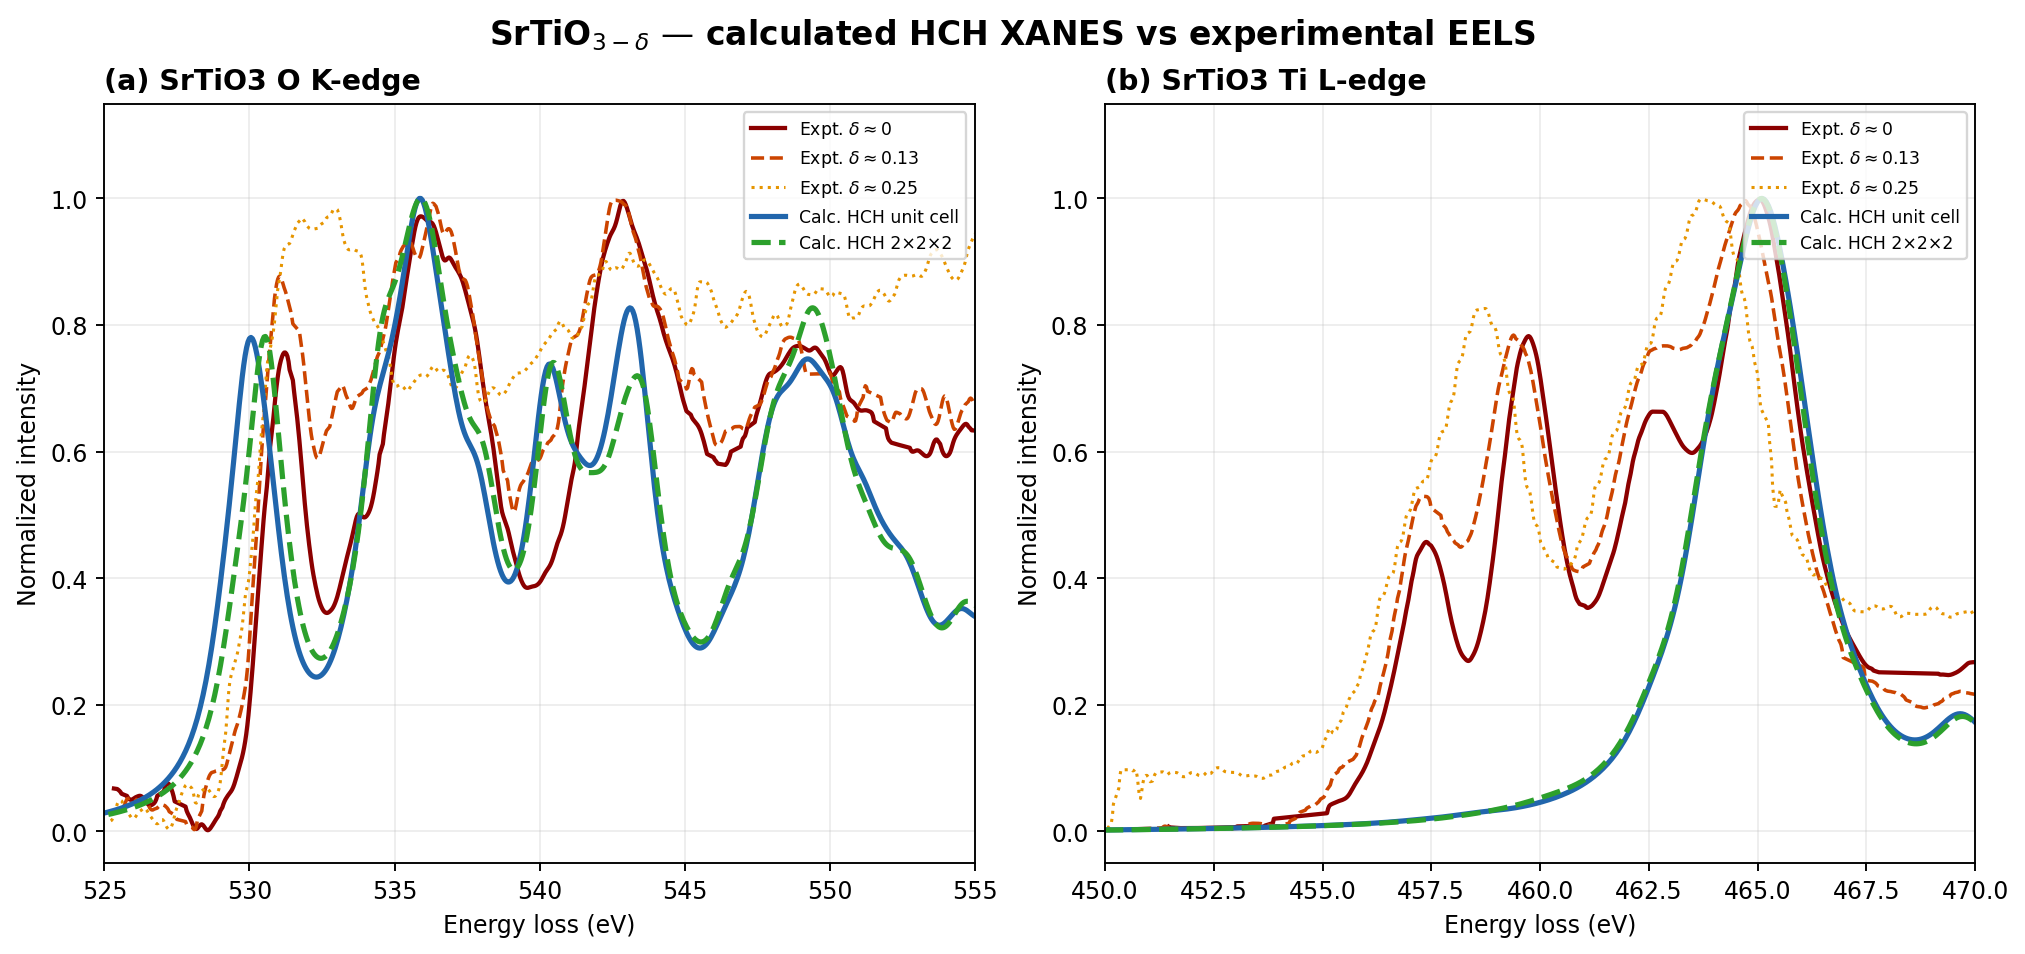
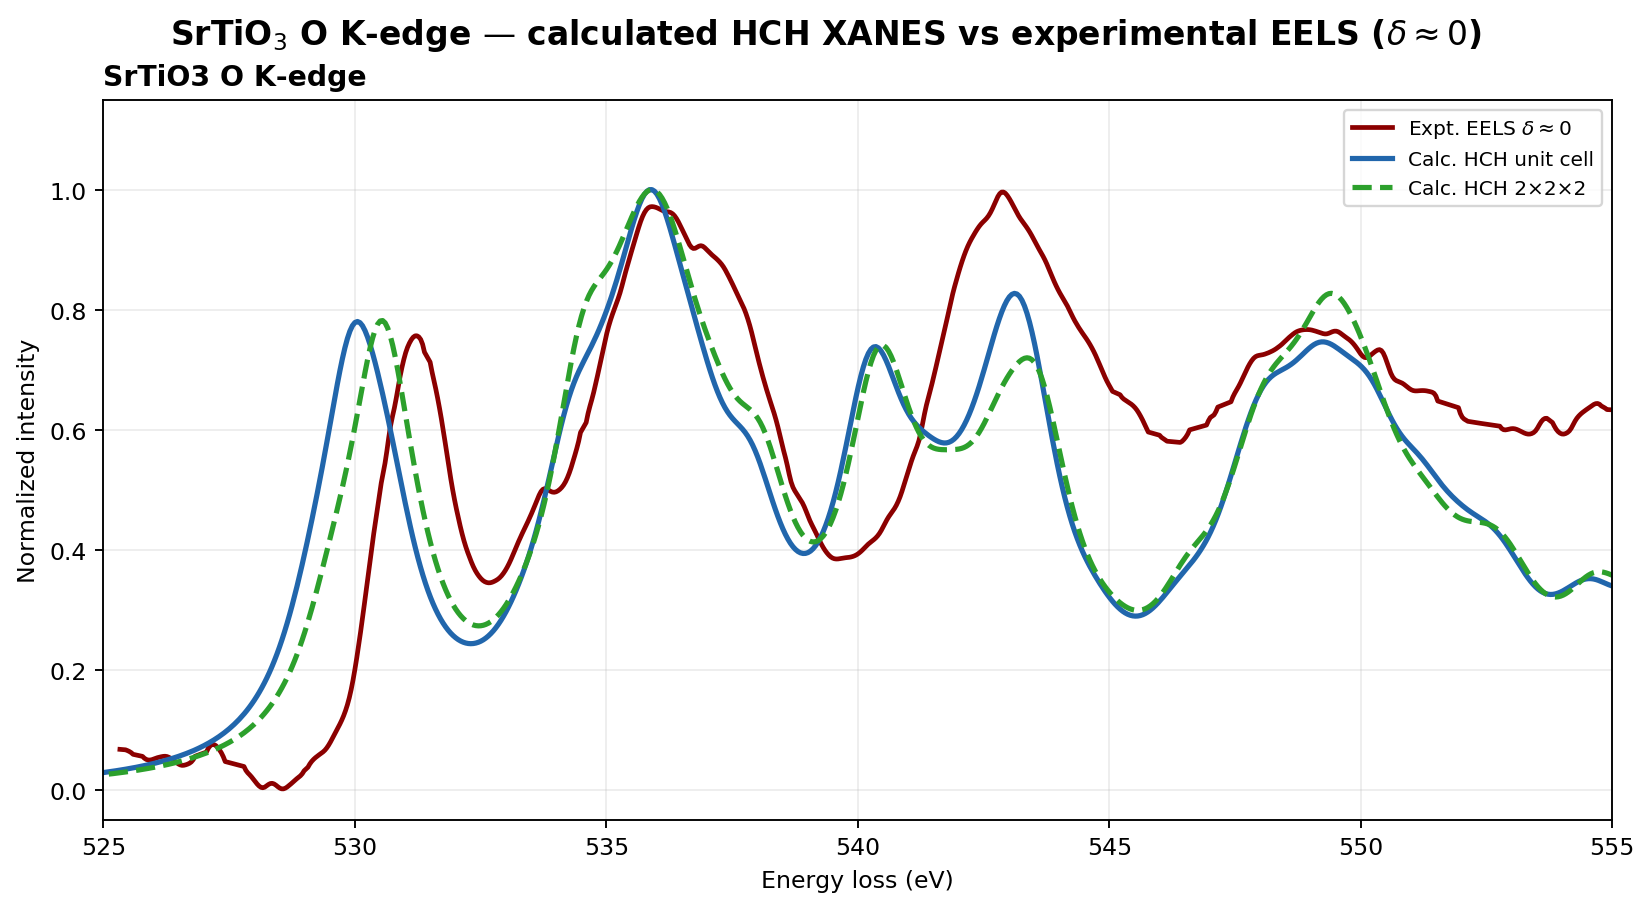
Focus SrTiO3 tutorial on O K-edge

diff --git a/SrTiO3/plot_all_comparison.py b/SrTiO3/plot_all_comparison.py
@@ -1,10 +1,7 @@
 #!/usr/bin/env python3
-"""Plot SrTiO3 XANES: HCH calculations vs all experimental EELS delta series.
+"""Plot SrTiO3 O K-edge XANES vs the delta=0 experimental EELS curve.
 
-Experimental EELS from David Muller — SrTiO_{3-δ} for δ ≈ 0, 0.13, 0.25.
-Digitized CSV files in O-K/ and Ti-L/ directories.
-
-Two panels: (a) O K-edge, (b) Ti L-edge.
+Experimental EELS from David Muller — stoichiometric SrTiO3, δ≈0.
 Calculated spectra aligned to δ≈0 experiment by matching first peak positions.
 """
 
@@ -30,78 +27,33 @@ def find_first_peak(energy, intensity, search_frac=0.4):
     return energy[np.argmax(intensity[:n])]
 
 
-# --- Load experimental data ---
-# Color mapping from original figure:
-#   blue  = δ ≈ 0    (stoichiometric)
-#   red   = δ ≈ 0.13
-#   black = δ ≈ 0.25
-
-expt_labels = {
-    "blue":  r"Expt. $\delta\approx0$",
-    "red":   r"Expt. $\delta\approx0.13$",
-    "black": r"Expt. $\delta\approx0.25$",
-}
-expt_colors = {
-    "blue":  "#8b0000",
-    "red":   "#cc4400",
-    "black": "#e69500",
-}
-expt_styles = {
-    "blue":  dict(lw=1.8, ls="-"),
-    "red":   dict(lw=1.5, ls="--"),
-    "black": dict(lw=1.2, ls=":"),
-}
-
-o_expt = {}
-for color in ["blue", "red", "black"]:
-    e, i = load_expt(f"O-K/data_{color}_clean.csv")
-    o_expt[color] = (e, i)
-
-ti_expt = {}
-for color in ["blue", "red", "black"]:
-    e, i = load_expt(f"Ti-L/data_{color}_clean.csv")
-    ti_expt[color] = (e, i)
+o_expt = load_expt("O-K/data_blue_clean.csv")
 
 # --- Load calculated spectra ---
 o_hch_uc = np.loadtxt("../reference_output/SrTiO3/O_Kedge_HCH/O_Kedge_HCH.dat")
 o_hch_sc = np.loadtxt("../reference_output/SrTiO3/O_Kedge_HCH_super/O_Kedge_HCH_super.dat")
-ti_hch_uc = np.loadtxt("../reference_output/SrTiO3/Ti_Ledge_HCH/Ti_Ledge_HCH.dat")
-ti_hch_sc = np.loadtxt("../reference_output/SrTiO3/Ti_Ledge_HCH_super/Ti_Ledge_HCH_super.dat")
 
-for arr in [o_hch_uc, o_hch_sc, ti_hch_uc, ti_hch_sc]:
+for arr in [o_hch_uc, o_hch_sc]:
     arr[:, 1] -= arr[:, 1].min()
     arr[:, 1] /= arr[:, 1].max()
 
 # --- Align calculated to δ≈0 experiment (first peak matching) ---
-# O K-edge
-expt_peak_o = find_first_peak(*o_expt["blue"])
+expt_peak_o = find_first_peak(*o_expt)
 calc_peak_o_uc = find_first_peak(o_hch_uc[:, 0], o_hch_uc[:, 1])
 calc_peak_o_sc = find_first_peak(o_hch_sc[:, 0], o_hch_sc[:, 1])
 shift_o_uc = expt_peak_o - calc_peak_o_uc
 shift_o_sc = expt_peak_o - calc_peak_o_sc
 
-# Ti L-edge (align to highest peak — L2 eg)
-EXPT_TI_L2_EG = 465.1
-calc_peak_ti_uc = ti_hch_uc[np.argmax(ti_hch_uc[:, 1]), 0]
-calc_peak_ti_sc = ti_hch_sc[np.argmax(ti_hch_sc[:, 1]), 0]
-shift_ti_uc = EXPT_TI_L2_EG - calc_peak_ti_uc
-shift_ti_sc = EXPT_TI_L2_EG - calc_peak_ti_sc
-
 print(f"O K-edge shifts:  UC={shift_o_uc:.1f} eV, SC={shift_o_sc:.1f} eV")
-print(f"Ti L-edge shifts: UC={shift_ti_uc:.1f} eV, SC={shift_ti_sc:.1f} eV")
 
 # --- Plot ---
 calc_color_uc = "#2166ac"
 calc_color_sc = "#2ca02c"
 
-fig, axes = plt.subplots(2, 1, figsize=(10, 9), constrained_layout=True)
+fig, ax = plt.subplots(1, 1, figsize=(9, 5.2), constrained_layout=True)
 
-# (a) O K-edge
-ax = axes[0]
-for color in ["blue", "red", "black"]:
-    e, i = o_expt[color]
-    ax.plot(e, i, color=expt_colors[color], label=expt_labels[color],
-            **expt_styles[color])
+e, i = o_expt
+ax.plot(e, i, color="#8b0000", lw=1.8, label=r"Expt. EELS $\delta\approx0$")
 
 ax.plot(o_hch_uc[:, 0] + shift_o_uc, o_hch_uc[:, 1],
         color=calc_color_uc, lw=2.0, label="Calc. HCH unit cell")
@@ -112,29 +64,10 @@ ax.set_xlabel("Energy Loss (eV)")
 ax.set_ylabel("Normalized Intensity (a.u.)")
 ax.set_xlim(525, 555)
 ax.set_ylim(-0.05, 1.15)
-ax.set_title("(a) O K-edge", fontsize=13, fontweight="bold", loc="left")
+ax.set_title("O K-edge", fontsize=13, fontweight="bold", loc="left")
 ax.legend(loc="upper right", frameon=True, fancybox=False, edgecolor="0.7", fontsize=9)
 
-# (b) Ti L-edge
-ax = axes[1]
-for color in ["blue", "red", "black"]:
-    e, i = ti_expt[color]
-    ax.plot(e, i, color=expt_colors[color], label=expt_labels[color],
-            **expt_styles[color])
-
-ax.plot(ti_hch_uc[:, 0] + shift_ti_uc, ti_hch_uc[:, 1],
-        color=calc_color_uc, lw=2.0, label="Calc. HCH unit cell")
-ax.plot(ti_hch_sc[:, 0] + shift_ti_sc, ti_hch_sc[:, 1],
-        color=calc_color_sc, lw=2.0, ls="--", label="Calc. HCH 2×2×2 supercell")
-
-ax.set_xlabel("Energy Loss (eV)")
-ax.set_ylabel("Normalized Intensity (a.u.)")
-ax.set_xlim(450, 470)
-ax.set_ylim(-0.05, 1.15)
-ax.set_title("(b) Ti L-edge", fontsize=13, fontweight="bold", loc="left")
-ax.legend(loc="upper right", frameon=True, fancybox=False, edgecolor="0.7", fontsize=9)
-
-fig.suptitle(r"SrTiO$_{3-\delta}$ — HCH XANES vs Experimental EELS (Muller)",
+fig.suptitle(r"SrTiO$_3$ O K-edge — HCH XANES vs Experimental EELS ($\delta\approx0$)",
              fontsize=14, fontweight="bold")
 plt.savefig("SrTiO3_all_comparison.png", dpi=150, bbox_inches="tight")
 print("Saved: SrTiO3_all_comparison.png")

diff --git a/scripts/make_presentation_plots.py b/scripts/make_presentation_plots.py
@@ -87,80 +87,36 @@ def save_diamond_plot() -> Path:
 
 
 def save_srtio3_comparison_plot() -> Path:
-    o_expt = {
-        key: load_experiment(ROOT / "SrTiO3" / "O-K" / f"data_{key}_clean.csv")
-        for key in ("blue", "red", "black")
-    }
-    ti_expt = {
-        key: load_experiment(ROOT / "SrTiO3" / "Ti-L" / f"data_{key}_clean.csv")
-        for key in ("blue", "red", "black")
-    }
+    o_expt = load_experiment(ROOT / "SrTiO3" / "O-K" / "data_blue_clean.csv")
 
     o_hch_uc = load_xanes(ROOT / "reference_output/SrTiO3/O_Kedge_HCH/O_Kedge_HCH.dat")
     o_hch_sc = load_xanes(ROOT / "reference_output/SrTiO3/O_Kedge_HCH_super/O_Kedge_HCH_super.dat")
-    ti_hch_uc = load_xanes(ROOT / "reference_output/SrTiO3/Ti_Ledge_HCH/Ti_Ledge_HCH.dat")
-    ti_hch_sc = load_xanes(ROOT / "reference_output/SrTiO3/Ti_Ledge_HCH_super/Ti_Ledge_HCH_super.dat")
 
-    for arr in (o_hch_uc, o_hch_sc, ti_hch_uc, ti_hch_sc):
+    for arr in (o_hch_uc, o_hch_sc):
         arr[:, 1] = normalize(arr[:, 1])
 
-    expt_peak_o = find_first_peak(*o_expt["blue"])
+    expt_peak_o = find_first_peak(*o_expt)
     shift_o_uc = expt_peak_o - find_first_peak(o_hch_uc[:, 0], o_hch_uc[:, 1])
     shift_o_sc = expt_peak_o - find_first_peak(o_hch_sc[:, 0], o_hch_sc[:, 1])
 
-    expt_ti_l2_eg = 465.1
-    shift_ti_uc = expt_ti_l2_eg - ti_hch_uc[np.argmax(ti_hch_uc[:, 1]), 0]
-    shift_ti_sc = expt_ti_l2_eg - ti_hch_sc[np.argmax(ti_hch_sc[:, 1]), 0]
+    fig, ax = plt.subplots(1, 1, figsize=(9.6, 5.3), constrained_layout=True)
 
-    expt_labels = {
-        "blue": r"Expt. $\delta\approx0$",
-        "red": r"Expt. $\delta\approx0.13$",
-        "black": r"Expt. $\delta\approx0.25$",
-    }
-    expt_colors = {"blue": "#8b0000", "red": "#cc4400", "black": "#e69500"}
-    expt_styles = {
-        "blue": dict(lw=1.8, ls="-"),
-        "red": dict(lw=1.5, ls="--"),
-        "black": dict(lw=1.3, ls=":"),
-    }
-
-    fig, axes = plt.subplots(1, 2, figsize=(11.8, 5.5), constrained_layout=True)
-
-    ax = axes[0]
-    for key in ("blue", "red", "black"):
-        energy, intensity = o_expt[key]
-        ax.plot(energy, intensity, color=expt_colors[key], label=expt_labels[key],
-                **expt_styles[key])
+    energy, intensity = o_expt
+    ax.plot(energy, intensity, color="#8b0000", lw=2.0,
+            label=r"Expt. EELS $\delta\approx0$")
     ax.plot(o_hch_uc[:, 0] + shift_o_uc, o_hch_uc[:, 1], color="#2166ac", lw=2.2,
             label="Calc. HCH unit cell")
     ax.plot(o_hch_sc[:, 0] + shift_o_sc, o_hch_sc[:, 1], color="#2ca02c", lw=2.2,
             ls="--", label="Calc. HCH 2×2×2")
-    ax.set_title("(a) SrTiO3 O K-edge", loc="left", fontweight="bold")
+    ax.set_title("SrTiO3 O K-edge", loc="left", fontweight="bold")
     ax.set_xlim(525, 555)
     ax.set_ylim(-0.05, 1.15)
     ax.set_xlabel("Energy loss (eV)")
     ax.set_ylabel("Normalized intensity")
-    ax.legend(loc="upper right", fontsize=7.3, frameon=True)
+    ax.legend(loc="upper right", fontsize=8.5, frameon=True)
     ax.grid(True, alpha=0.22)
 
-    ax = axes[1]
-    for key in ("blue", "red", "black"):
-        energy, intensity = ti_expt[key]
-        ax.plot(energy, intensity, color=expt_colors[key], label=expt_labels[key],
-                **expt_styles[key])
-    ax.plot(ti_hch_uc[:, 0] + shift_ti_uc, ti_hch_uc[:, 1], color="#2166ac", lw=2.2,
-            label="Calc. HCH unit cell")
-    ax.plot(ti_hch_sc[:, 0] + shift_ti_sc, ti_hch_sc[:, 1], color="#2ca02c", lw=2.2,
-            ls="--", label="Calc. HCH 2×2×2")
-    ax.set_title("(b) SrTiO3 Ti L-edge", loc="left", fontweight="bold")
-    ax.set_xlim(450, 470)
-    ax.set_ylim(-0.05, 1.15)
-    ax.set_xlabel("Energy loss (eV)")
-    ax.set_ylabel("Normalized intensity")
-    ax.legend(loc="upper right", fontsize=7.3, frameon=True)
-    ax.grid(True, alpha=0.22)
-
-    fig.suptitle(r"SrTiO$_{3-\delta}$ — calculated HCH XANES vs experimental EELS",
+    fig.suptitle(r"SrTiO$_3$ O K-edge — calculated HCH XANES vs experimental EELS ($\delta\approx0$)",
                  fontsize=14, fontweight="bold")
     OUTDIR.mkdir(parents=True, exist_ok=True)
     outpath = OUTDIR / "presentation_srtio3_eels_comparison.png"

diff --git a/SrTiO3/plot_corehole_comparison.py b/SrTiO3/plot_corehole_comparison.py
@@ -1,56 +1,34 @@
 #!/usr/bin/env python3
 """
 Plot SrTiO3 XANES spectra comparison: no core-hole vs FCH vs HCH.
-Two panels: O K-edge (top) and Ti L-edge (bottom).
+O K-edge only.
 """
 
 import numpy as np
 import matplotlib.pyplot as plt
 
-# --- Load all spectra ---
-# O K-edge
 o_noch = np.loadtxt("../reference_output/SrTiO3/O_Kedge/O_Kedge.dat")
 o_fch  = np.loadtxt("../reference_output/SrTiO3/O_Kedge_FCH/O_Kedge_FCH.dat")
 o_hch  = np.loadtxt("../reference_output/SrTiO3/O_Kedge_HCH/O_Kedge_HCH.dat")
 
-# Ti L-edge
-ti_noch = np.loadtxt("../reference_output/SrTiO3/Ti_Ledge/Ti_Ledge.dat")
-ti_fch  = np.loadtxt("../reference_output/SrTiO3/Ti_Ledge_FCH/Ti_Ledge_FCH.dat")
-ti_hch  = np.loadtxt("../reference_output/SrTiO3/Ti_Ledge_HCH/Ti_Ledge_HCH.dat")
-
 # --- Plot ---
-fig, axes = plt.subplots(2, 1, figsize=(10, 9), constrained_layout=True)
+fig, ax = plt.subplots(1, 1, figsize=(9, 5), constrained_layout=True)
 
 colors = {"No CH": "#2166ac", "HCH": "#4dac26", "FCH": "#d6604d"}
 lw = 1.8
 
-# Panel (a): O K-edge
-ax = axes[0]
 ax.plot(o_noch[:, 0], o_noch[:, 1], color=colors["No CH"], lw=lw, label="No core-hole (initial state)")
 ax.plot(o_hch[:, 0],  o_hch[:, 1],  color=colors["HCH"],  lw=lw, label="Half core-hole (HCH)", ls="--")
 ax.plot(o_fch[:, 0],  o_fch[:, 1],  color=colors["FCH"],  lw=lw, label="Full core-hole (FCH)", ls="-.")
 ax.set_xlabel("Energy (eV)", fontsize=12)
 ax.set_ylabel("Absorption (arb. units)", fontsize=12)
-ax.set_title("(a) O K-edge", fontsize=13, fontweight="bold", loc="left")
+ax.set_title("O K-edge", fontsize=13, fontweight="bold", loc="left")
 ax.set_xlim(-5, 35)
 ax.axvline(0, color="gray", ls=":", alpha=0.5, lw=1)
 ax.legend(frameon=True, fancybox=False, edgecolor="0.7", fontsize=10, loc="upper right")
 ax.grid(True, alpha=0.2)
 
-# Panel (b): Ti L-edge
-ax = axes[1]
-ax.plot(ti_noch[:, 0], ti_noch[:, 1], color=colors["No CH"], lw=lw, label="No core-hole (initial state)")
-ax.plot(ti_hch[:, 0],  ti_hch[:, 1],  color=colors["HCH"],  lw=lw, label="Half core-hole (HCH)", ls="--")
-ax.plot(ti_fch[:, 0],  ti_fch[:, 1],  color=colors["FCH"],  lw=lw, label="Full core-hole (FCH)", ls="-.")
-ax.set_xlabel("Energy (eV)", fontsize=12)
-ax.set_ylabel("Absorption (arb. units)", fontsize=12)
-ax.set_title("(b) Ti L$_2$-edge", fontsize=13, fontweight="bold", loc="left")
-ax.set_xlim(-5, 35)
-ax.axvline(0, color="gray", ls=":", alpha=0.5, lw=1)
-ax.legend(frameon=True, fancybox=False, edgecolor="0.7", fontsize=10, loc="upper right")
-ax.grid(True, alpha=0.2)
-
-fig.suptitle("SrTiO$_3$ — Core-Hole Effect on XANES Spectra", fontsize=15, fontweight="bold")
+fig.suptitle("SrTiO$_3$ — Core-Hole Effect on O K-edge XANES", fontsize=15, fontweight="bold")
 plt.savefig("SrTiO3_corehole_comparison.png", dpi=150, bbox_inches="tight")
 print("Saved: SrTiO3_corehole_comparison.png")
 plt.close()

diff --git a/SrTiO3/plot_spectra.py b/SrTiO3/plot_spectra.py
@@ -1,13 +1,12 @@
 #!/usr/bin/env python3
-"""Plot SrTiO3 O K-edge and Ti L-edge XANES spectra."""
+"""Plot SrTiO3 O K-edge XANES spectra."""
 
 import numpy as np
 import matplotlib.pyplot as plt
 
-fig, axes = plt.subplots(2, 1, figsize=(8, 8), constrained_layout=True)
+fig, ax = plt.subplots(1, 1, figsize=(8, 4.8), constrained_layout=True)
 
 data_o = np.loadtxt("../reference_output/SrTiO3/O_Kedge/O_Kedge.dat")
-ax = axes[0]
 ax.plot(data_o[:, 0], data_o[:, 1], "b-", linewidth=1.5)
 ax.set_xlabel("Energy (eV)")
 ax.set_ylabel("Absorption (arb. units)")
@@ -17,18 +16,7 @@ ax.axvline(0, color="gray", linestyle="--", alpha=0.5, label="Fermi level")
 ax.legend(frameon=False)
 ax.grid(True, alpha=0.3)
 
-data_ti = np.loadtxt("../reference_output/SrTiO3/Ti_Ledge/Ti_Ledge.dat")
-ax = axes[1]
-ax.plot(data_ti[:, 0], data_ti[:, 1], "r-", linewidth=1.5)
-ax.set_xlabel("Energy (eV)")
-ax.set_ylabel("Absorption (arb. units)")
-ax.set_title("SrTiO3 — Ti L-edge (L$_2$, dipole, initial-state)")
-ax.set_xlim(-5, 35)
-ax.axvline(0, color="gray", linestyle="--", alpha=0.5, label="Fermi level")
-ax.legend(frameon=False)
-ax.grid(True, alpha=0.3)
-
-fig.suptitle("SrTiO3 Cubic Perovskite — XANES Spectra", fontsize=14, fontweight="bold")
+fig.suptitle("SrTiO3 Cubic Perovskite — O K-edge XANES", fontsize=14, fontweight="bold")
 plt.savefig("SrTiO3_spectra.png", dpi=150, bbox_inches="tight")
 print("Saved: SrTiO3_spectra.png")
 plt.close()

diff --git a/README.md b/README.md
@@ -41,11 +41,10 @@ squeue -u "$USER"
 5. [XSpectra 계산 흐름](docs/03_xspectra_pipeline.md)
 6. [Diamond C K-edge 예제](docs/04_diamond_walkthrough.md)
 7. [SrTiO3 O K-edge 예제](docs/05_srtio3_o_kedge_walkthrough.md)
-8. [SrTiO3 Ti L-edge 예제](docs/06_srtio3_ti_ledge_walkthrough.md)
-9. [Core-hole 근사 비교](docs/07_core_hole_methods.md)
-10. [계산 스펙트럼과 EELS 비교](docs/08_compare_with_eels.md)
-11. [Supercell과 MPI 참고](docs/09_supercell_and_mpi.md)
-12. [문제 해결](docs/10_troubleshooting.md)
+8. [Core-hole 근사 비교](docs/07_core_hole_methods.md)
+9. [계산 스펙트럼과 EELS 비교](docs/08_compare_with_eels.md)
+10. [Supercell과 MPI 참고](docs/09_supercell_and_mpi.md)
+11. [문제 해결](docs/10_troubleshooting.md)
 
 ### 자료
 
@@ -62,4 +61,4 @@ squeue -u "$USER"
 - `check_setup.sh` — QE/XSpectra 실행 파일, pseudopotential, Python 환경을 확인합니다.
 - `reference_output/` — 계산이 오래 걸리거나 실패했을 때 비교할 수 있는 기준 출력입니다.
 - `diamond/` — 짧은 Diamond C K-edge 연습 예제입니다. 필요한 Carbon 유사퍼텐셜은 `diamond/pseudo/`에 포함되어 있습니다.
-- `SrTiO3/` — O K-edge, Ti L-edge, core-hole, supercell, EELS 비교 예제가 들어 있습니다.
+- `SrTiO3/` — O K-edge, core-hole, supercell, EELS 비교 예제가 들어 있습니다.

diff --git a/docs/08_compare_with_eels.md b/docs/08_compare_with_eels.md
@@ -16,7 +16,7 @@ XSpectra 계산 결과와 실험 EELS 스펙트럼은 자동으로 같은 에너
 - 대략적인 peak 순서.
 - No-core-hole, FCH, HCH 사이의 정성적 변화.
 - O K-edge의 hybridization feature.
-- 정성적 수준의 Ti L-edge white-line 모양.
+- δ≈0 실험 EELS 곡선과 계산 HCH 스펙트럼의 정성적 일치.
 
 ## 이 튜토리얼에서 완전히 모델링하지 않는 것
 

diff --git a/docs/instructor_checklist.md b/docs/instructor_checklist.md
@@ -20,6 +20,6 @@
 
 1. Diamond부터 시작합니다.
 2. EELS와 가장 관련 있는 주요 예제로 SrTiO3 O K-edge를 사용합니다.
-3. Ti L-edge는 white-line 해석의 정성적 예제로 사용합니다.
+3. O K-edge에서 no-hole, FCH, HCH 차이를 비교합니다.
 4. 작업이 아직 큐에 있으면 reference output을 보여 줍니다.
 5. Supercell과 benchmarking은 고급 내용으로 남겨 둡니다.

diff --git a/scheduler/pbs_examples.md b/scheduler/pbs_examples.md
@@ -6,7 +6,6 @@ This tutorial environment uses PBS/Torque. Ready-to-submit templates are:
 cd /scratch/$USER/xspectra-tutorial
 qsub scheduler/pbs_diamond.pbs
 qsub scheduler/pbs_srtio3_okedge.pbs
-qsub scheduler/pbs_srtio3_tiledge.pbs
 qstat -u "$USER"
 ```
 